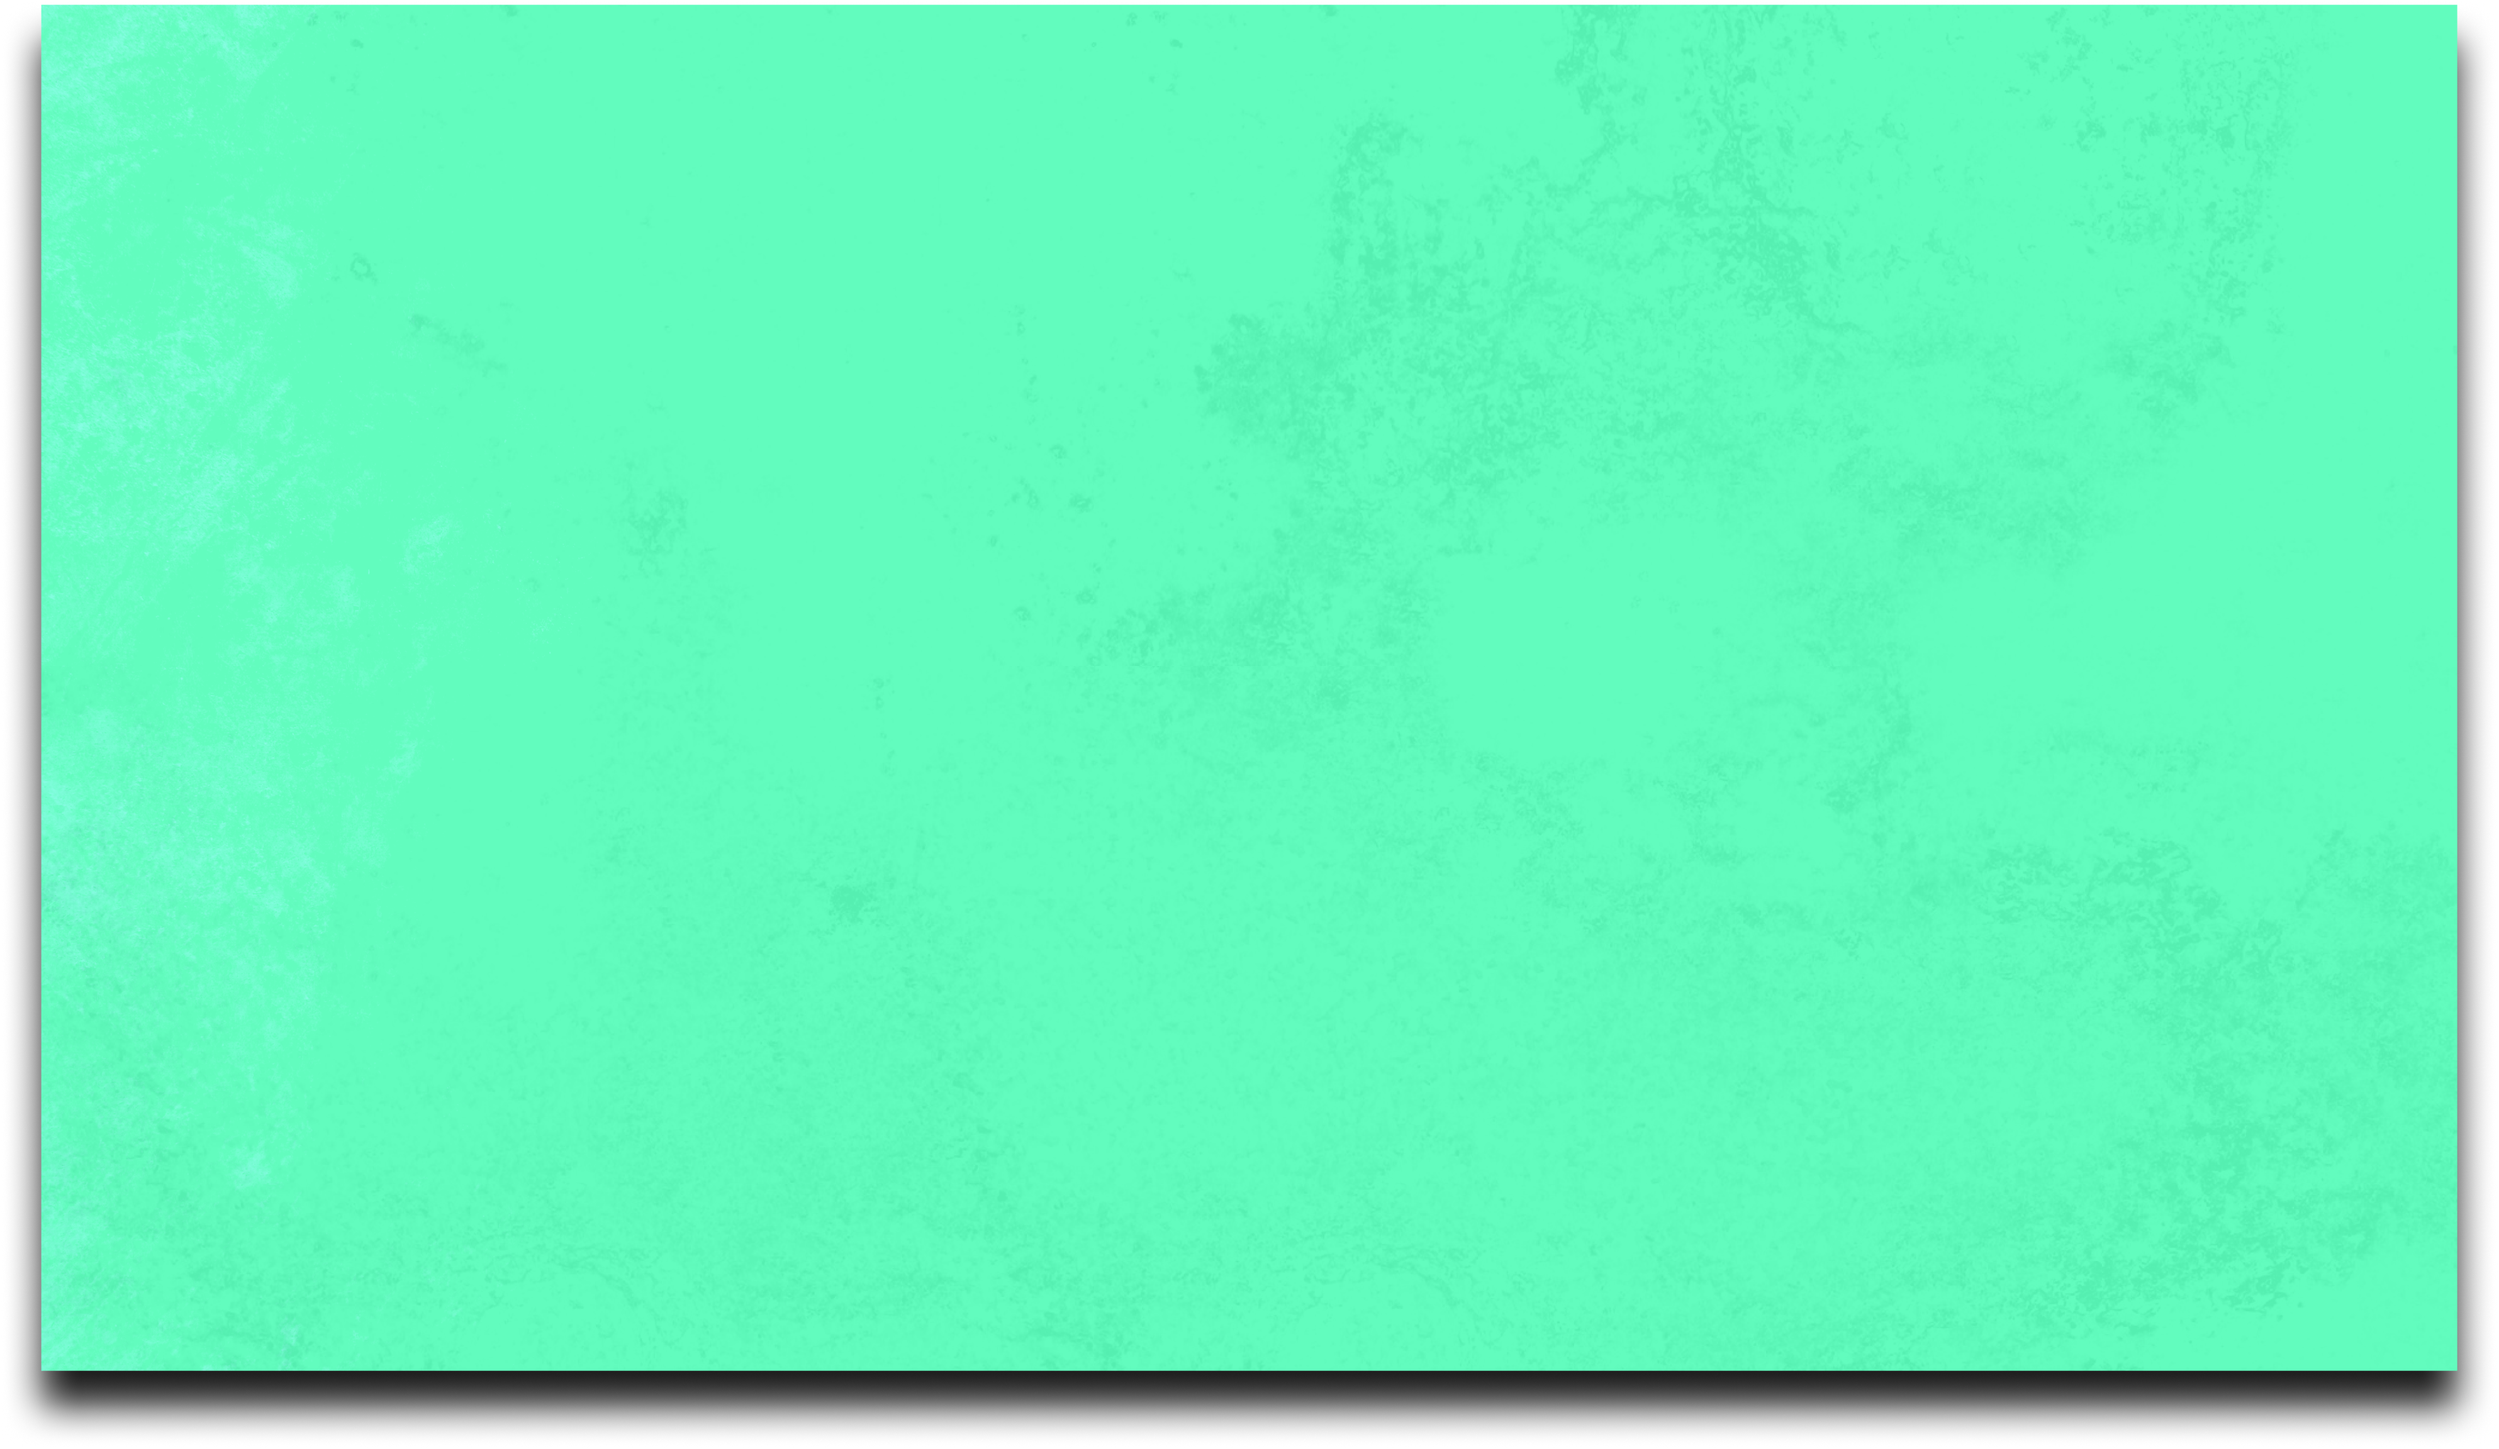
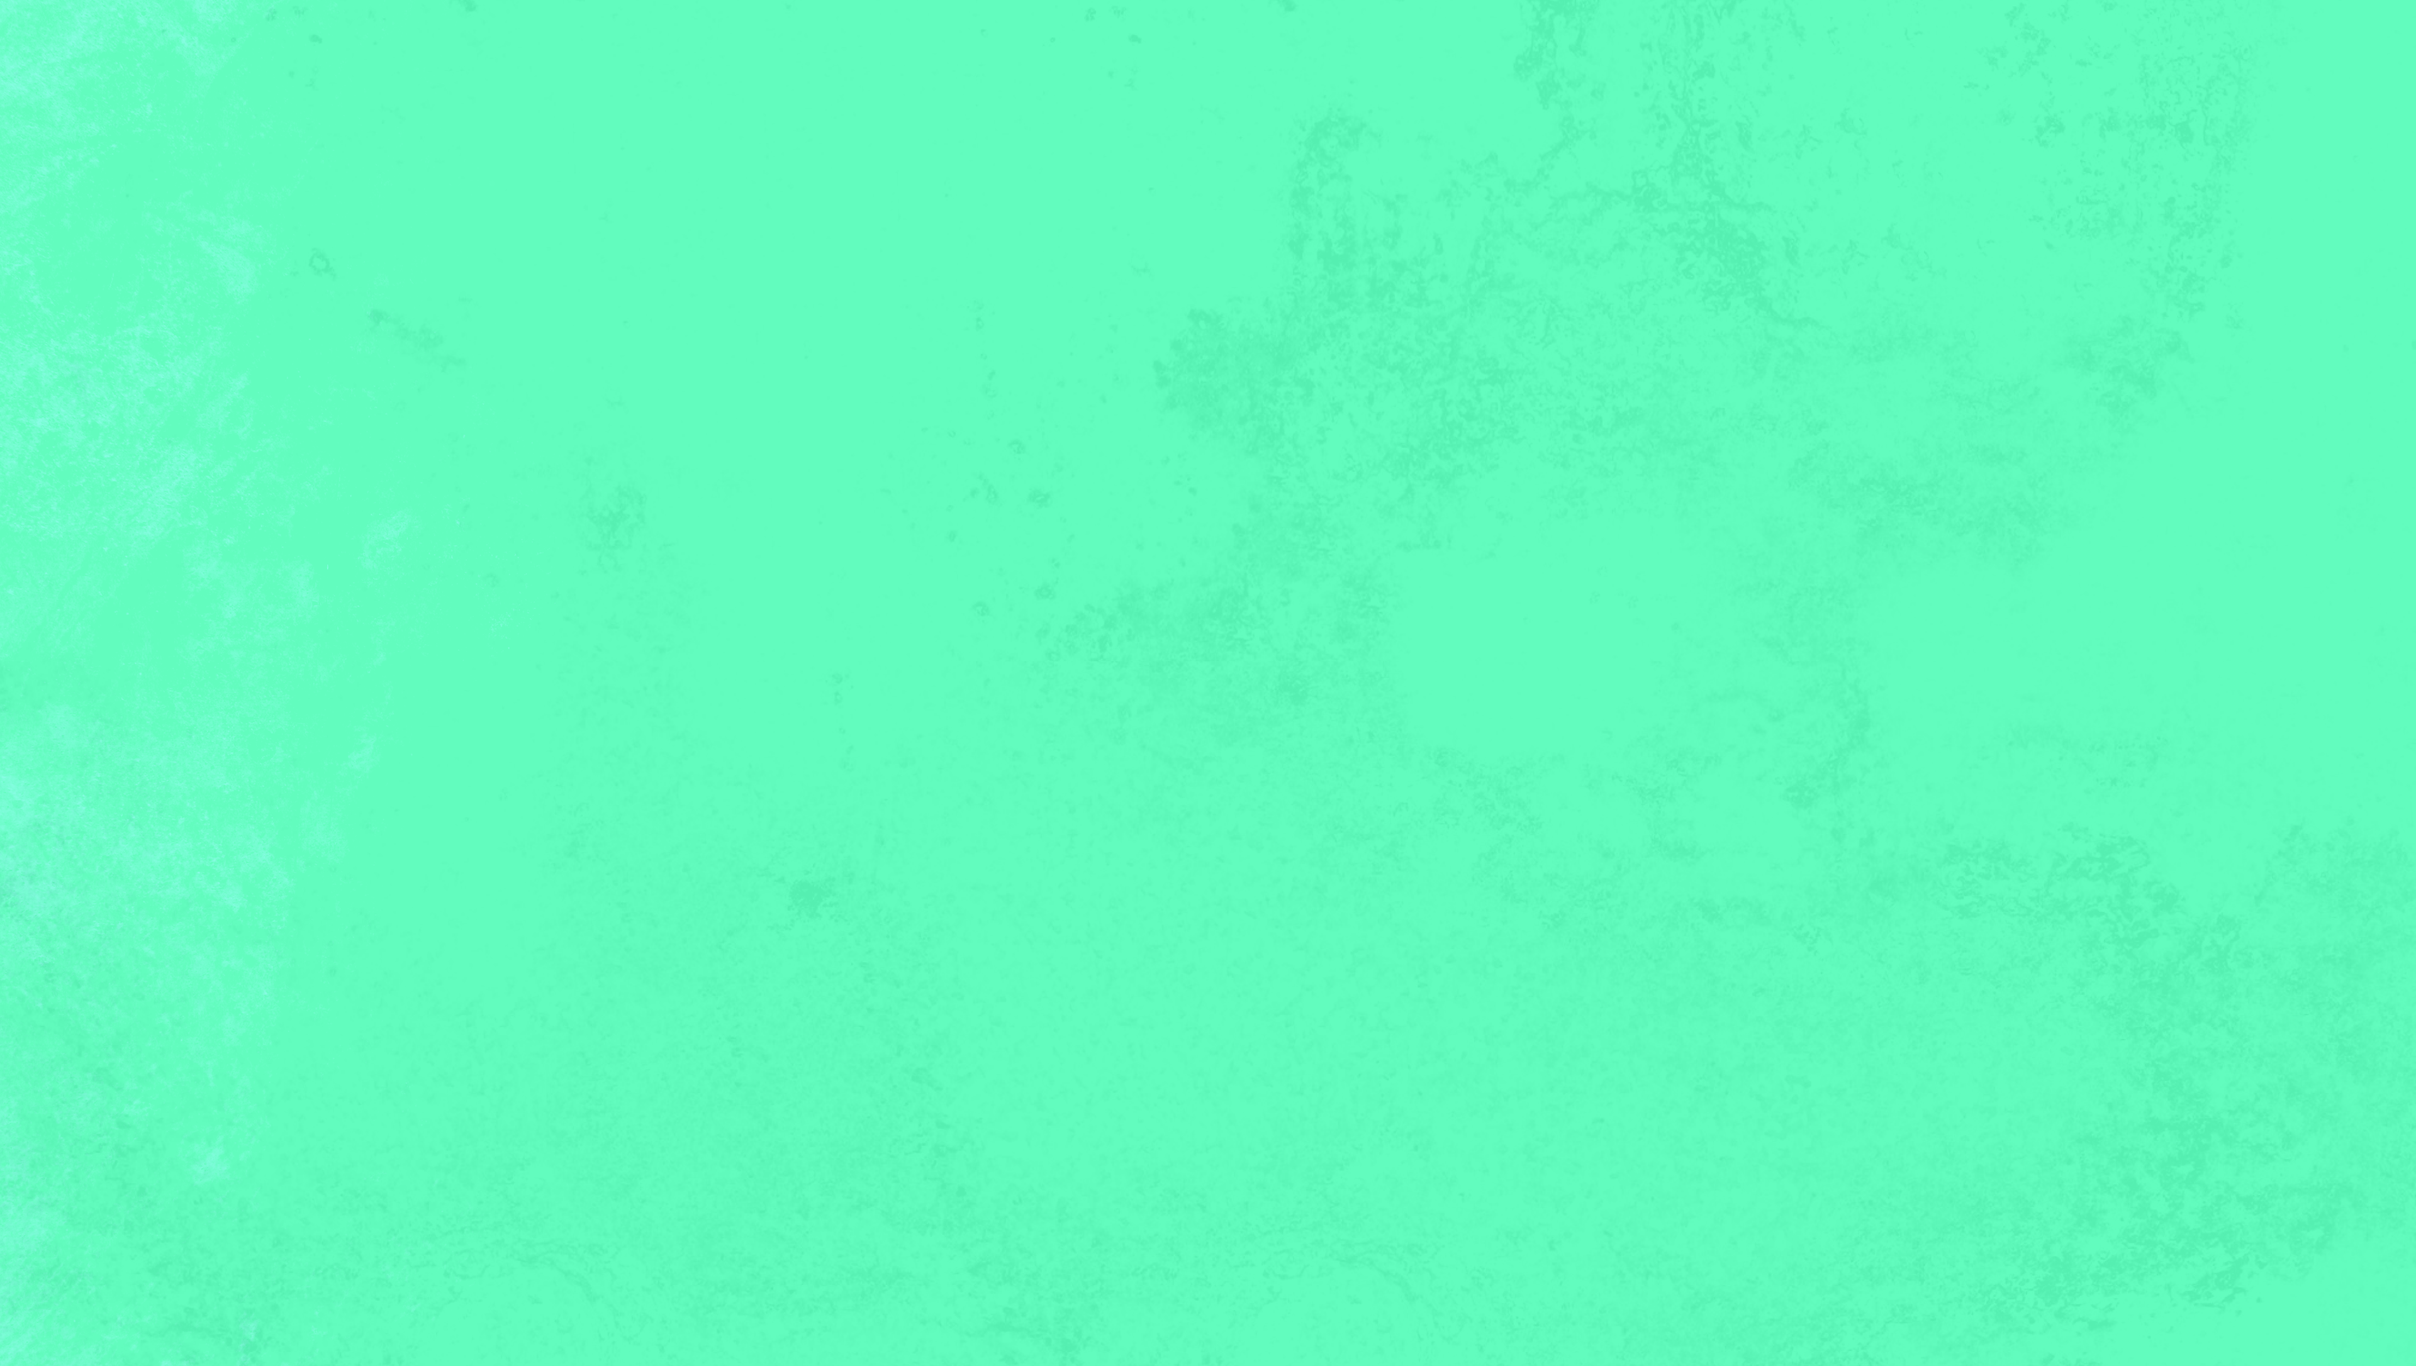
background stuff

Changed region(s): [[0.0, 0.0, 1.0, 1.0]]

diff --git a/index.html b/index.html
@@ -46,40 +46,40 @@
         <section class="projects" id="projects">
             <div class="project-thumbnail">
                 <figure>
-                    <figcaption><span>Project: UX/Interaction Design</span></figcaption>
+                    <!-- <figcaption><span>Project: UX/Interaction Design</span></figcaption> -->
                     <img src="imgs/fs1.png"></img>
                 </figure>
             </div>
         
             <div class="project-thumbnail">
                 <figure>
-                    <figcaption><span>Project: UX/Interaction Design</span></figcaption>
+                    <!-- <figcaption><span>Project: UX/Interaction Design</span></figcaption> -->
                     <img src="imgs/fs1.png"></img>
                 </figure>
             </div>
             <div class="project-thumbnail">
                 <figure>
-                    <figcaption><span>Project: UX/Interaction Design</span></figcaption>
+                    <!-- <figcaption><span>Project: UX/Interaction Design</span></figcaption> -->
                     <img src="imgs/fs1.png"></img>
                 </figure>
             </div>
             <div class="project-thumbnail">
                 <figure>
-                    <figcaption><span>Project: UX/Interaction Design</span></figcaption>
-                    <img src="imgs/fs1.png"></img>
-                </figure>
-            </div>
-
-            <div class="project-thumbnail">
-                <figure>
-                    <figcaption><span>Project: UX/Interaction Design</span></figcaption>
+                    <!-- <figcaption><span>Project: UX/Interaction Design</span></figcaption> -->
                     <img src="imgs/fs1.png"></img>
                 </figure>
             </div>
 
             <div class="project-thumbnail">
                 <figure>
-                    <figcaption><span>Project: UX/Interaction Design</span></figcaption>
+                    <!-- <figcaption><span>Project: UX/Interaction Design</span></figcaption> -->
+                    <img src="imgs/fs1.png"></img>
+                </figure>
+            </div>
+
+            <div class="project-thumbnail">
+                <figure>
+                    <!-- <figcaption><span>Project: UX/Interaction Design</span></figcaption> -->
                     <img src="imgs/fs1.png"></img>
                 </figure>
             </div>

diff --git a/styles.css b/styles.css
@@ -58,14 +58,14 @@ h1 {
 }
 
 .main {
-    background: url("imgs/background.png");
+    background: url("imgs/background-lighter.png");
     background-attachment: fixed;
     display: flex;
     flex-direction: column;
     align-items: center;
-    padding-top: 11rem;
+    padding-top: 10rem;
     padding-bottom: 7rem;
-    box-shadow: 0rem 1rem 5rem rgb(0, 0, 0);
+    box-shadow: 0rem 1rem 5rem rgba(0, 0, 0, 0.5);
     transition: top 0.3s ease;
     width: 100vw;
 }
@@ -86,7 +86,7 @@ nav ul {
 
 nav a {
     display: block;
-    border: var(--dark) 1px solid;
+    border: var(--dark) .12rem solid;    
     background-color: var(--light);
     padding: .9rem 4rem;
     background-blend-mode: overlay;
@@ -111,10 +111,10 @@ nav::before {
     left: 0;
     right: 0;
     top: 50%;
-    height: 10px;
+    height: .3rem;
     width: calc(100% - 8rem);
     background: var(--light);
-    border: var(--dark) 1px solid;    
+    border: var(--dark) .12rem solid;    
     transform: translateY(-50%);
     pointer-events: none;
     z-index: 0;
@@ -342,7 +342,9 @@ nav::before {
 }
 
 .projects-main {
-    background: url("imgs/light-background.png");
+    background: url("imgs/dark-background2.png");
+    background-attachment: fixed;
+    background-size: cover;
     display: flex;
     flex-direction: column;
     align-items: center;
@@ -355,6 +357,7 @@ nav::before {
 .project-thumbnail img {
     width: 100%;
     height: auto;
+    border: var(--dark) .12rem solid;
     /* box-shadow: 0rem 1rem 3rem rgb(0, 0, 0); */
 }
 
